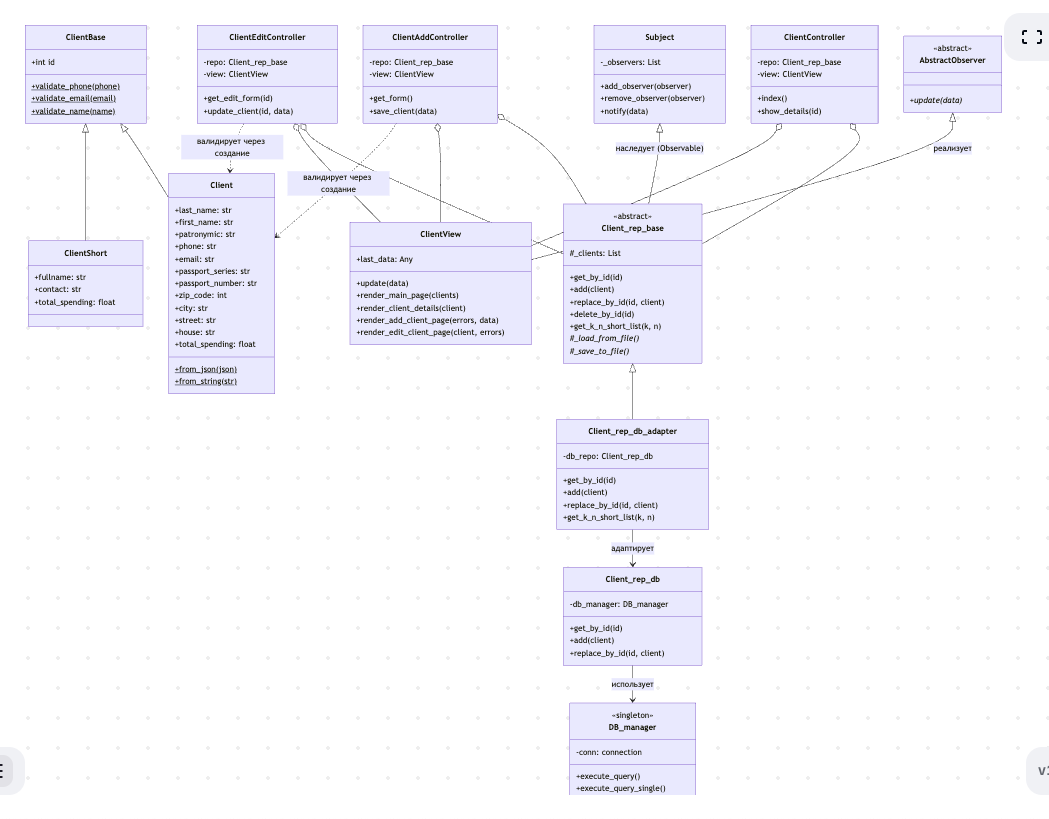
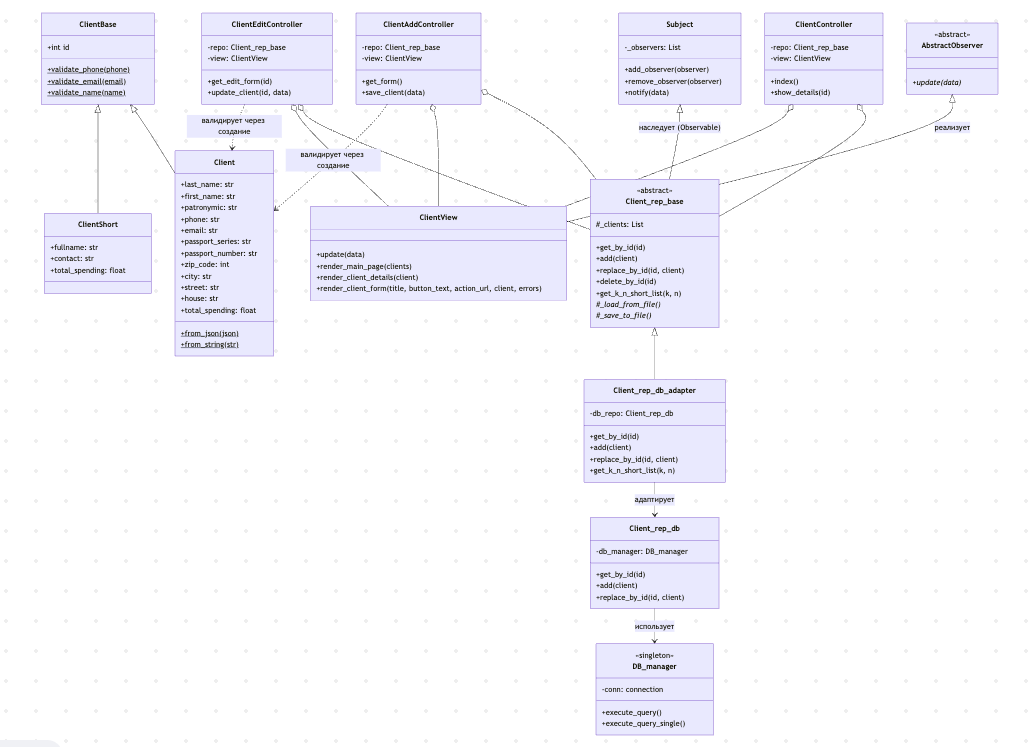
3.4 Рефакторинг кода

diff --git a/src/mvc/client_view.py b/src/mvc/client_view.py
@@ -248,19 +248,36 @@ class ClientView(AbstractObserver):
         
         return self._get_base_html(f'Клиент {client.last_name}', details_html)
     
-    def render_add_client_page(self, errors: Optional[List[str]] = None, form_data: Optional[Dict[str, str]] = None) -> str:
+    def render_client_form(self, title: str, button_text: str, action_url: str, client: Optional[Client] = None, errors: Optional[List[str]] = None) -> str:
         """
-        Генерирует HTML страницу с формой для добавления нового клиента.
+        Генерирует универсальную HTML форму для добавления или редактирования клиента.
+        
+        Параметры title, button_text и action_url позволяют переиспользовать форму
+        для разных операций (Add/Edit).
         
         Args:
+            title: Заголовок формы (например, "Добавление клиента" или "Редактирование клиента")
+            button_text: Текст на кнопке отправки (например, "Создать" или "Сохранить изменения")
+            action_url: URL для отправки формы (например, "/add" или "/edit/1")
+            client: Объект Client для предзаполнения формы (если None - форма пустая для добавления)
             errors: Список ошибок валидации (если есть)
-            form_data: Словарь с ранее введенными данными для восстановления при ошибке
             
         Returns:
-            HTML-строка с формой добавления клиента
+            HTML-строка с формой
         """
-        if form_data is None:
-            form_data = {}
+        # Если передан client, используем его данные; иначе пустые значения
+        last_name = client.last_name if client else ''
+        first_name = client.first_name if client else ''
+        patronymic = client.patronymic if client else ''
+        phone = client.phone if client else ''
+        email = client.email if client else ''
+        passport_series = client.passport_series if client else ''
+        passport_number = client.passport_number if client else ''
+        zip_code = str(client.zip_code) if client else ''
+        city = client.city if client else ''
+        street = client.street if client else ''
+        house = client.house if client else ''
+        total_spending = f"{client.total_spending:.2f}" if client else '0.00'
         
         # Генерируем блок ошибок, если они есть
         errors_html = ""
@@ -273,24 +290,10 @@ class ClientView(AbstractObserver):
         </ul>
     </div>"""
         
-        # Значения полей (используем введенные или пустые)
-        last_name = form_data.get('last_name', '')
-        first_name = form_data.get('first_name', '')
-        patronymic = form_data.get('patronymic', '')
-        phone = form_data.get('phone', '')
-        email = form_data.get('email', '')
-        passport_series = form_data.get('passport_series', '')
-        passport_number = form_data.get('passport_number', '')
-        zip_code = form_data.get('zip_code', '')
-        city = form_data.get('city', '')
-        street = form_data.get('street', '')
-        house = form_data.get('house', '')
-        total_spending = form_data.get('total_spending', '0.00')
-        
         form_html = f"""<a href="/" style="display: inline-block; margin-bottom: 20px; color: #007bff; font-weight: 500;">← Вернуться на главную</a>
-    <h1>Добавление нового клиента</h1>
+    <h1>{title}</h1>
     {errors_html}
-    <form method="POST" action="/add" style="background-color: white; padding: 20px; border-radius: 4px; box-shadow: 0 2px 4px rgba(0, 0, 0, 0.1);">
+    <form method="POST" action="{action_url}" style="background-color: white; padding: 20px; border-radius: 4px; box-shadow: 0 2px 4px rgba(0, 0, 0, 0.1);">
         <fieldset style="border: none; margin: 0; padding: 0;">
             <legend style="font-size: 18px; font-weight: 600; margin-bottom: 20px; color: #333;">Личные данные</legend>
             
@@ -369,123 +372,11 @@ class ClientView(AbstractObserver):
         </fieldset>
         
         <div style="margin-top: 30px; display: flex; gap: 10px;">
-            <button type="submit" style="padding: 12px 30px; background-color: #28a745; color: white; border: none; border-radius: 4px; font-size: 16px; font-weight: 600; cursor: pointer;">✓ Сохранить клиента</button>
+            <button type="submit" style="padding: 12px 30px; background-color: #007bff; color: white; border: none; border-radius: 4px; font-size: 16px; font-weight: 600; cursor: pointer;">✓ {button_text}</button>
             <a href="/" style="padding: 12px 30px; background-color: #6c757d; color: white; border-radius: 4px; text-decoration: none; font-weight: 600; display: inline-flex; align-items: center;">✕ Отмена</a>
         </div>
     </form>"""
         
-        return self._get_base_html('Добавление клиента', form_html)
-    
-    def render_edit_client_page(self, client: Client, errors: Optional[List[str]] = None) -> str:
-        """
-        Генерирует HTML страницу с формой для редактирования клиента.
-        
-        Форма предзаполнена текущими данными клиента.
-        
-        Args:
-            client: Объект Client с текущими данными
-            errors: Список ошибок валидации (если есть)
-            
-        Returns:
-            HTML-строка с формой редактирования
-        """
-        # Генерируем блок ошибок, если они есть
-        errors_html = ""
-        if errors:
-            errors_list = "".join([f"<li>{error}</li>" for error in errors])
-            errors_html = f"""<div style="background-color: #f8d7da; color: #721c24; padding: 12px; border: 1px solid #f5c6cb; border-radius: 4px; margin-bottom: 20px;">
-        <strong>❌ Ошибки при заполнении формы:</strong>
-        <ul style="margin: 10px 0 0 0;">
-            {errors_list}
-        </ul>
-    </div>"""
-        
-        form_html = f"""<a href="/" style="display: inline-block; margin-bottom: 20px; color: #007bff; font-weight: 500;">← Вернуться на главную</a>
-    <h1>Редактирование клиента (ID: {client.id})</h1>
-    {errors_html}
-    <form method="POST" action="/edit/{client.id}" style="background-color: white; padding: 20px; border-radius: 4px; box-shadow: 0 2px 4px rgba(0, 0, 0, 0.1);">
-        <fieldset style="border: none; margin: 0; padding: 0;">
-            <legend style="font-size: 18px; font-weight: 600; margin-bottom: 20px; color: #333;">Личные данные</legend>
-            
-            <div style="margin-bottom: 15px;">
-                <label for="last_name" style="display: block; margin-bottom: 5px; font-weight: 600; color: #333;">Фамилия *</label>
-                <input type="text" id="last_name" name="last_name" value="{client.last_name}" required style="width: 100%; padding: 10px; border: 1px solid #ddd; border-radius: 4px; box-sizing: border-box;">
-            </div>
-            
-            <div style="margin-bottom: 15px;">
-                <label for="first_name" style="display: block; margin-bottom: 5px; font-weight: 600; color: #333;">Имя *</label>
-                <input type="text" id="first_name" name="first_name" value="{client.first_name}" required style="width: 100%; padding: 10px; border: 1px solid #ddd; border-radius: 4px; box-sizing: border-box;">
-            </div>
-            
-            <div style="margin-bottom: 15px;">
-                <label for="patronymic" style="display: block; margin-bottom: 5px; font-weight: 600; color: #333;">Отчество</label>
-                <input type="text" id="patronymic" name="patronymic" value="{client.patronymic}" style="width: 100%; padding: 10px; border: 1px solid #ddd; border-radius: 4px; box-sizing: border-box;">
-            </div>
-            
-            <div style="margin-bottom: 15px;">
-                <label for="phone" style="display: block; margin-bottom: 5px; font-weight: 600; color: #333;">Телефон (7XXXXXXXXXX) *</label>
-                <input type="tel" id="phone" name="phone" value="{client.phone}" placeholder="79991234567" required style="width: 100%; padding: 10px; border: 1px solid #ddd; border-radius: 4px; box-sizing: border-box;">
-            </div>
-            
-            <div style="margin-bottom: 15px;">
-                <label for="email" style="display: block; margin-bottom: 5px; font-weight: 600; color: #333;">Email *</label>
-                <input type="email" id="email" name="email" value="{client.email}" required style="width: 100%; padding: 10px; border: 1px solid #ddd; border-radius: 4px; box-sizing: border-box;">
-            </div>
-        </fieldset>
-        
-        <fieldset style="border: none; margin: 30px 0 0 0; padding: 20px 0 0 0; border-top: 2px solid #eee;">
-            <legend style="font-size: 18px; font-weight: 600; margin-bottom: 20px; color: #333;">Паспортные данные</legend>
-            
-            <div style="display: grid; grid-template-columns: 1fr 1fr; gap: 15px; margin-bottom: 15px;">
-                <div>
-                    <label for="passport_series" style="display: block; margin-bottom: 5px; font-weight: 600; color: #333;">Серия (4 цифры) *</label>
-                    <input type="text" id="passport_series" name="passport_series" value="{client.passport_series}" placeholder="1234" maxlength="4" required style="width: 100%; padding: 10px; border: 1px solid #ddd; border-radius: 4px; box-sizing: border-box;">
-                </div>
-                <div>
-                    <label for="passport_number" style="display: block; margin-bottom: 5px; font-weight: 600; color: #333;">Номер (6 цифр) *</label>
-                    <input type="text" id="passport_number" name="passport_number" value="{client.passport_number}" placeholder="567890" maxlength="6" required style="width: 100%; padding: 10px; border: 1px solid #ddd; border-radius: 4px; box-sizing: border-box;">
-                </div>
-            </div>
-        </fieldset>
-        
-        <fieldset style="border: none; margin: 30px 0 0 0; padding: 20px 0 0 0; border-top: 2px solid #eee;">
-            <legend style="font-size: 18px; font-weight: 600; margin-bottom: 20px; color: #333;">Адрес проживания</legend>
-            
-            <div style="margin-bottom: 15px;">
-                <label for="zip_code" style="display: block; margin-bottom: 5px; font-weight: 600; color: #333;">Почтовый индекс (6 цифр) *</label>
-                <input type="text" id="zip_code" name="zip_code" value="{client.zip_code}" placeholder="123456" maxlength="6" required style="width: 100%; padding: 10px; border: 1px solid #ddd; border-radius: 4px; box-sizing: border-box;">
-            </div>
-            
-            <div style="margin-bottom: 15px;">
-                <label for="city" style="display: block; margin-bottom: 5px; font-weight: 600; color: #333;">Город *</label>
-                <input type="text" id="city" name="city" value="{client.city}" required style="width: 100%; padding: 10px; border: 1px solid #ddd; border-radius: 4px; box-sizing: border-box;">
-            </div>
-            
-            <div style="margin-bottom: 15px;">
-                <label for="street" style="display: block; margin-bottom: 5px; font-weight: 600; color: #333;">Улица *</label>
-                <input type="text" id="street" name="street" value="{client.street}" required style="width: 100%; padding: 10px; border: 1px solid #ddd; border-radius: 4px; box-sizing: border-box;">
-            </div>
-            
-            <div style="margin-bottom: 15px;">
-                <label for="house" style="display: block; margin-bottom: 5px; font-weight: 600; color: #333;">Номер дома *</label>
-                <input type="text" id="house" name="house" value="{client.house}" required style="width: 100%; padding: 10px; border: 1px solid #ddd; border-radius: 4px; box-sizing: border-box;">
-            </div>
-        </fieldset>
-        
-        <fieldset style="border: none; margin: 30px 0 0 0; padding: 20px 0 0 0; border-top: 2px solid #eee;">
-            <legend style="font-size: 18px; font-weight: 600; margin-bottom: 20px; color: #333;">Финансовая информация</legend>
-            
-            <div style="margin-bottom: 15px;">
-                <label for="total_spending" style="display: block; margin-bottom: 5px; font-weight: 600; color: #333;">Общие траты (₽) *</label>
-                <input type="number" id="total_spending" name="total_spending" value="{client.total_spending:.2f}" step="0.01" min="0" required style="width: 100%; padding: 10px; border: 1px solid #ddd; border-radius: 4px; box-sizing: border-box;">
-            </div>
-        </fieldset>
-        
-        <div style="margin-top: 30px; display: flex; gap: 10px;">
-            <button type="submit" style="padding: 12px 30px; background-color: #007bff; color: white; border: none; border-radius: 4px; font-size: 16px; font-weight: 600; cursor: pointer;">✓ Сохранить изменения</button>
-            <a href="/" style="padding: 12px 30px; background-color: #6c757d; color: white; border-radius: 4px; text-decoration: none; font-weight: 600; display: inline-flex; align-items: center;">✕ Отмена</a>
-        </div>
-    </form>"""
-        
-        return self._get_base_html(f'Редактирование клиента {client.last_name}', form_html)
+        return self._get_base_html(title, form_html)
+
 

diff --git a/src/mvc/client_controller.py b/src/mvc/client_controller.py
@@ -112,7 +112,12 @@ class ClientAddController:
         Returns:
             HTML-строка с пустой формой
         """
-        return self.view.render_add_client_page()
+        return self.view.render_client_form(
+            title="Добавление нового клиента",
+            button_text="✓ Создать",
+            action_url="/add",
+            client=None
+        )
     
     def save_client(self, form_data: Dict[str, str]) -> Union[bool, str]:
         """
@@ -192,17 +197,23 @@ class ClientAddController:
             error_message = str(e)
             errors.append(error_message)
             
-            # Возвращаем форму с ошибками и введенными данными
-            return self.view.render_add_client_page(
-                errors=errors,
-                form_data=form_data
+            # Возвращаем форму с ошибками
+            return self.view.render_client_form(
+                title="Добавление нового клиента",
+                button_text="✓ Создать",
+                action_url="/add",
+                client=None,
+                errors=errors
             )
         except Exception as e:
             # Неожиданная ошибка
             errors.append(f"Неожиданная ошибка: {str(e)}")
-            return self.view.render_add_client_page(
-                errors=errors,
-                form_data=form_data
+            return self.view.render_client_form(
+                title="Добавление нового клиента",
+                button_text="✓ Создать",
+                action_url="/add",
+                client=None,
+                errors=errors
             )
 
 
@@ -251,7 +262,12 @@ class ClientEditController:
             self.repo.notify(client)
             
             # Возвращаем форму редактирования
-            return self.view.render_edit_client_page(client)
+            return self.view.render_client_form(
+                title=f"Редактирование клиента (ID: {client.id})",
+                button_text="✓ Сохранить изменения",
+                action_url=f"/edit/{client.id}",
+                client=client
+            )
         except Exception as e:
             return f"<h1>Ошибка</h1><p>Не удалось загрузить форму редактирования: {e}</p>"
     
@@ -340,8 +356,11 @@ class ClientEditController:
             try:
                 current_client = self.repo.get_by_id(client_id)
                 if current_client:
-                    return self.view.render_edit_client_page(
-                        current_client,
+                    return self.view.render_client_form(
+                        title=f"Редактирование клиента (ID: {current_client.id})",
+                        button_text="✓ Сохранить изменения",
+                        action_url=f"/edit/{current_client.id}",
+                        client=current_client,
                         errors=errors
                     )
             except Exception:
@@ -355,8 +374,11 @@ class ClientEditController:
             try:
                 current_client = self.repo.get_by_id(client_id)
                 if current_client:
-                    return self.view.render_edit_client_page(
-                        current_client,
+                    return self.view.render_client_form(
+                        title=f"Редактирование клиента (ID: {current_client.id})",
+                        button_text="✓ Сохранить изменения",
+                        action_url=f"/edit/{current_client.id}",
+                        client=current_client,
                         errors=errors
                     )
             except Exception:

diff --git a/Diagrams/sequence_refactoring.md b/Diagrams/sequence_refactoring.md
@@ -1,0 +1,19 @@
+sequenceDiagram
+    autonumber
+    actor User as Пользователь
+    participant App as app.py
+    participant AddCtrl as ClientAddController
+    participant EditCtrl as ClientEditController
+    participant View as ClientView (Unified)
+
+    Note over User, View: Сценарий А: Добавление
+    User->>App: GET /add
+    App->>AddCtrl: get_form()
+    AddCtrl->>View: render_client_form(title="Add", client=None)
+    View-->>User: Пустая форма
+
+    Note over User, View: Сценарий Б: Редактирование
+    User->>App: GET /edit/1
+    App->>EditCtrl: get_edit_form(1)
+    EditCtrl->>View: render_client_form(title="Edit", client=obj)
+    View-->>User: Предзаполненная форма
